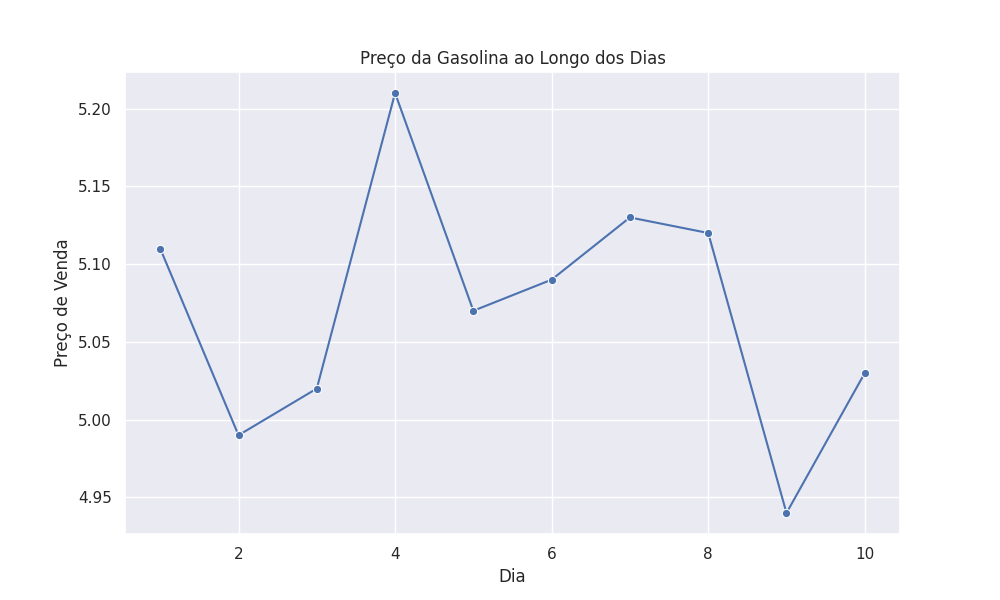
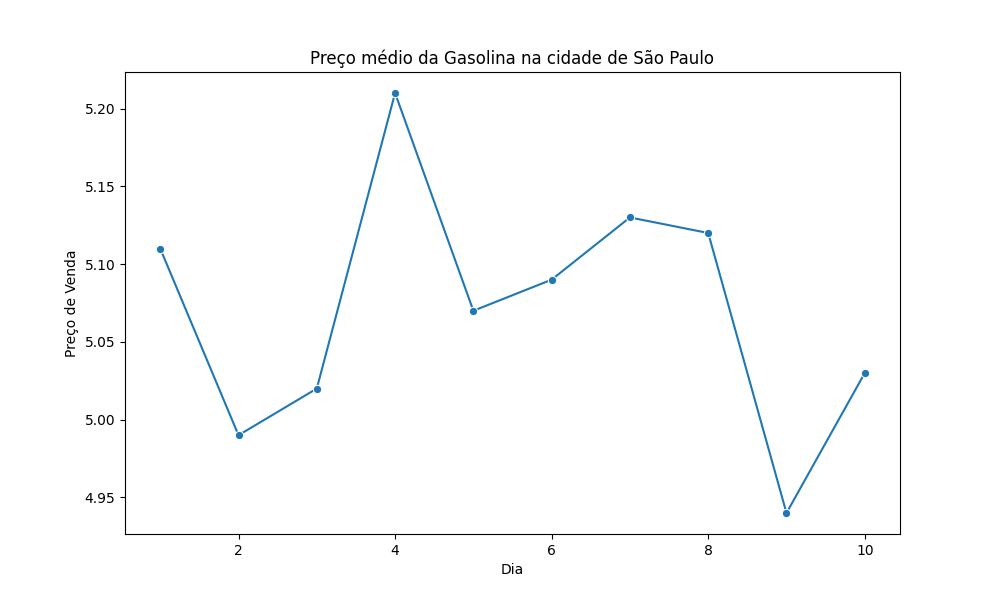
add novos dados para branch develop

diff --git a/gasolina.py b/gasolina.py
@@ -1,0 +1,21 @@
+import pandas as pd
+import seaborn as sns
+import matplotlib.pyplot as plt
+
+# Substituindo os dados
+data = pd.read_csv('gasolina.csv')
+    
+
+
+df = pd.DataFrame(data)
+
+# Criando o gráfico de linha
+plt.figure(figsize=(10, 6))
+line_plot = sns.lineplot(x='dia', y='venda', marker='o', data=df)
+line_plot.set(title='Preço médio da Gasolina na cidade de São Paulo', xlabel='Dia', ylabel='Preço de Venda')
+
+# Salvando o gráfico como gasolina.png
+plt.savefig('gasolina.png')
+
+# Exibindo o gráfico
+plt.show()
